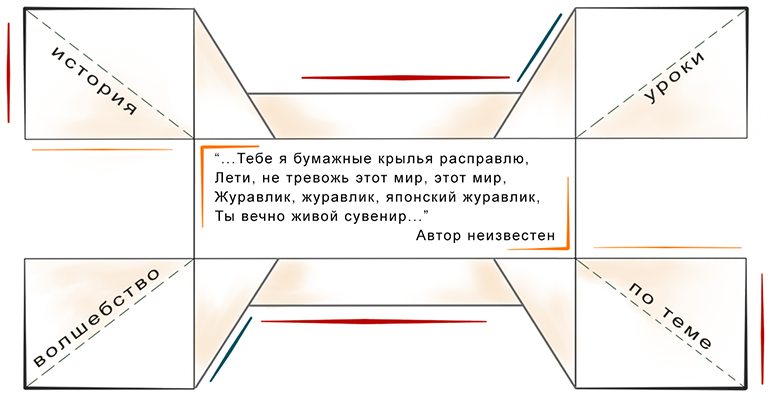
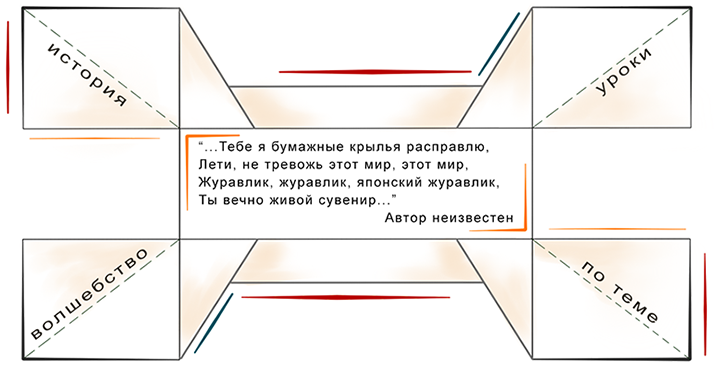
новые файлы на главной

diff --git a/app/assets/stylesheets/curu_main.sass b/app/assets/stylesheets/curu_main.sass
@@ -1,51 +1,56 @@
+@import compass
 @import "compass/reset"
 @import "compass/layout"
-@import compass
 
 +sticky-footer(63px)
 
 body
   background: no-repeat image-url('curu/lines.png')
-  min-width: 1300px
+  min-width: 1000px
   #header
     line-height: 0
     a
       text-decoration: none
 
   #header
-    min-height: 350px
     background: no-repeat image-url('curu/main_title.png')
-    background-position: 50% 15%
+    background-position: 50% 8%
     padding:
       top: 180px
     text-align: center
 
     #content_main
-      margin-top: -30px
+      position: relative
+      height: 370px
+      width: 715px
+      margin: 0 auto
+      margin-top: -20px
+
+
 
   #lesson_main,  #history_main, #magic_main, #topic_main
     //background-color: blue
     position: absolute
-    width: 169px
-    height: 131px
+    width: 157px
+    height: 120px
     display: block
 
   #history_main
-    top: 158px
-    left: 322px
+    top: 9px
+    left: 22px
 
 
   #magic_main
-    left: 322px
-    top: 409px
+    left: 22px
+    top: 240px
 
   #lesson_main
-    left: 874px
-    top: 158px
+    left: 533px
+    top: 8px
 
   #topic_main
-    top: 409px
-    left: 874px
+    top: 239px
+    left: 533px
 
   #footer
     font-size: 55%

diff --git a/app/assets/stylesheets/application.css.sass b/app/assets/stylesheets/application.css.sass
@@ -1,0 +1,2 @@
+@import compass
+@import "**/*"
